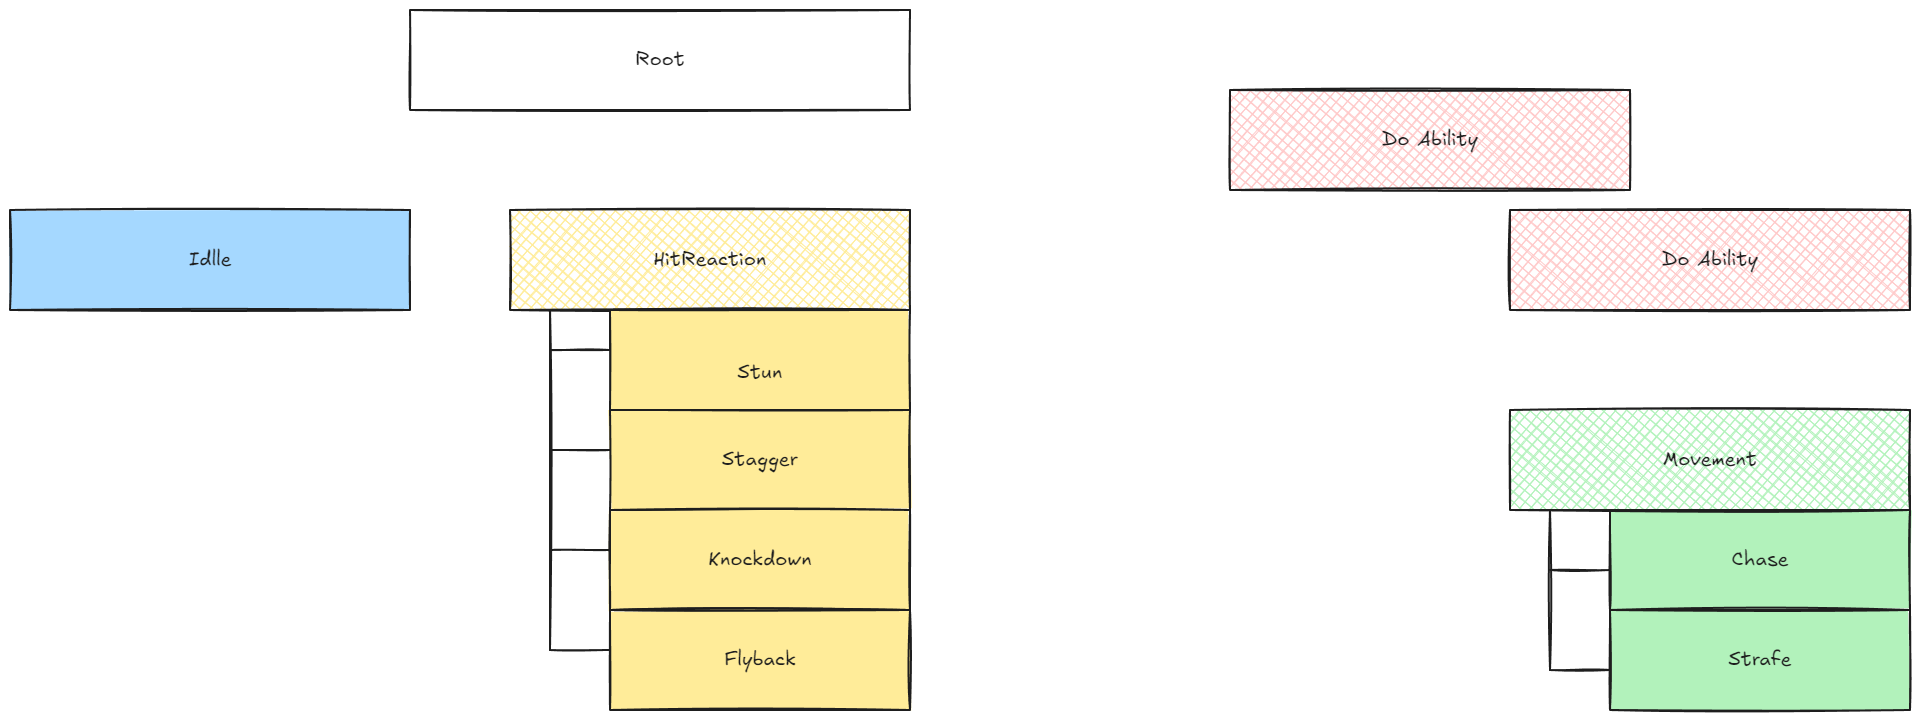
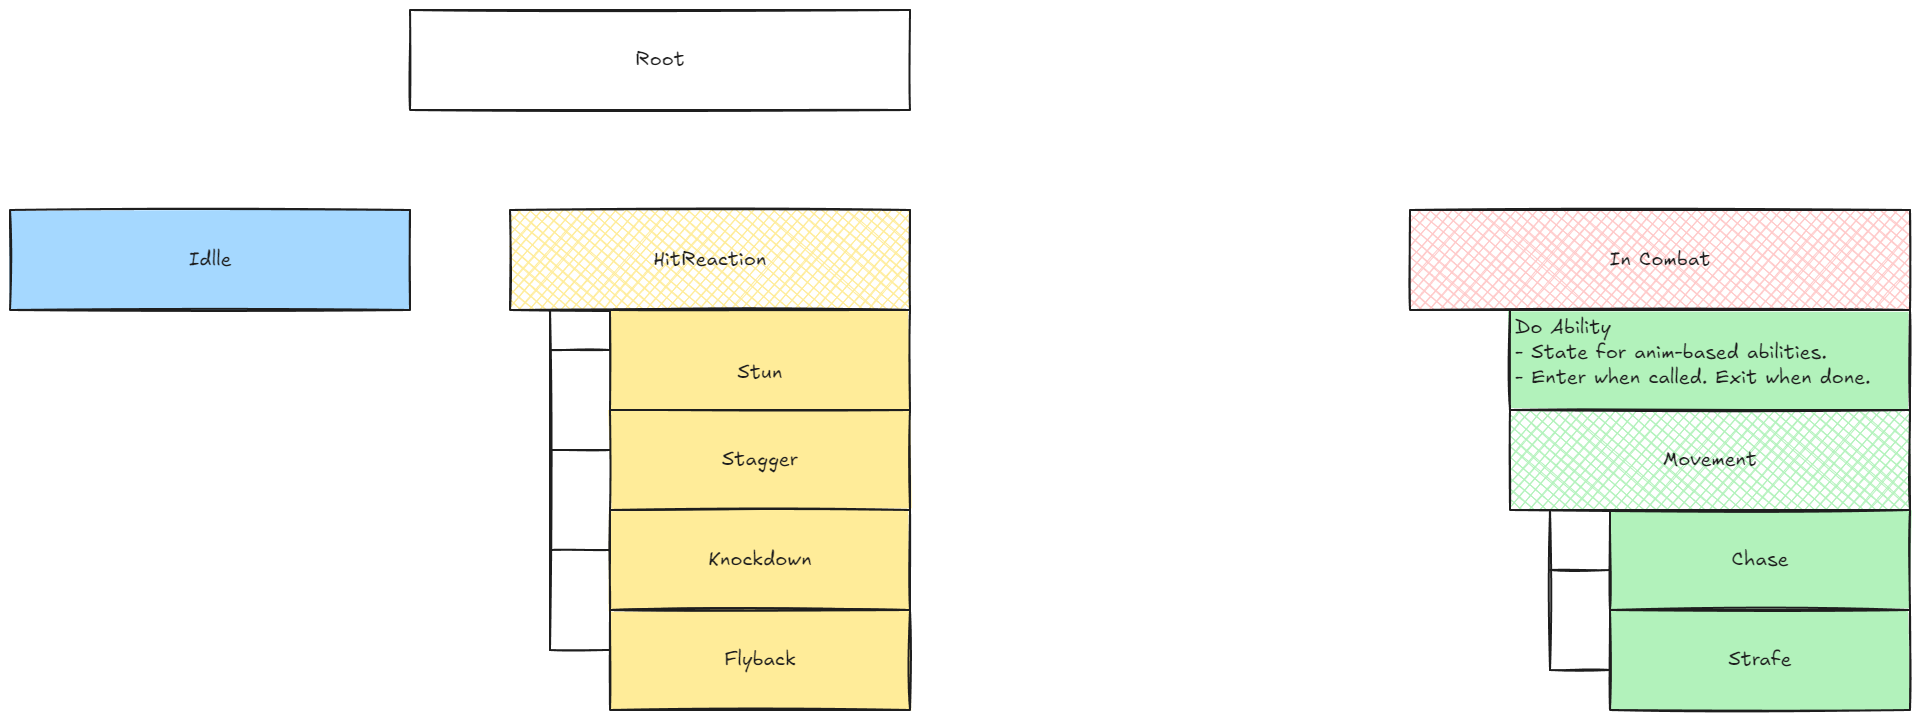
vault backup: 2026-06-04 18:34:41

Changed region(s): [[0.625, 0.1222, 1.0, 0.5806]]

diff --git a/Projects/Summer Project/Mechanics/AI Rework Graph.md b/Projects/Summer Project/Mechanics/AI Rework Graph.md
@@ -30,9 +30,11 @@ Movement ^Aw6gvWcO
 
 Strafe ^CxHEqQMk
 
-Do Ability ^uWY48rye
+Do Ability
+- State for anim-based abilities.
+- Enter when called. Exit when done. ^uWY48rye
 
-Do Ability ^M2kW6dxD
+In Combat ^M2kW6dxD
 
 %%
 ## Drawing
@@ -41,90 +43,92 @@ N4KAkARALgngDgUwgLgAQQQDwMYEMA2AlgCYBOuA7hADTgQBuCpAzoQPYB2KqATLZMzYBXUtiRoIACyh
 
[1 lines of base64/hex data omitted]
 
[2 lines of base64/hex data omitted]
 
[2 lines of base64/hex data omitted]
 
[2 lines of base64/hex data omitted]
 
[2 lines of base64/hex data omitted]
 
[2 lines of base64/hex data omitted]
 
[2 lines of base64/hex data omitted]
 
[2 lines of base64/hex data omitted]
 
[2 lines of base64/hex data omitted]
 
[2 lines of base64/hex data omitted]
 
[2 lines of base64/hex data omitted]
 
[2 lines of base64/hex data omitted]
 
[2 lines of base64/hex data omitted]
 
[2 lines of base64/hex data omitted]
 
[2 lines of base64/hex data omitted]
 
[2 lines of base64/hex data omitted]
 
[2 lines of base64/hex data omitted]
 
[2 lines of base64/hex data omitted]
 
[2 lines of base64/hex data omitted]
 
[2 lines of base64/hex data omitted]
 
[2 lines of base64/hex data omitted]
 
[2 lines of base64/hex data omitted]
 
[2 lines of base64/hex data omitted]
 
[2 lines of base64/hex data omitted]
 
[2 lines of base64/hex data omitted]
 
[2 lines of base64/hex data omitted]
 
[2 lines of base64/hex data omitted]
 
[2 lines of base64/hex data omitted]
 
[2 lines of base64/hex data omitted]
 
[2 lines of base64/hex data omitted]
 
[2 lines of base64/hex data omitted]
 
[2 lines of base64/hex data omitted]
 
[2 lines of base64/hex data omitted]
 
[2 lines of base64/hex data omitted]
 
[2 lines of base64/hex data omitted]
 
[2 lines of base64/hex data omitted]
 
[2 lines of base64/hex data omitted]
 
[2 lines of base64/hex data omitted]
 
[2 lines of base64/hex data omitted]
 
[2 lines of base64/hex data omitted]
 
[2 lines of base64/hex data omitted]
 
[2 lines of base64/hex data omitted]
 
[2 lines of base64/hex data omitted]
 
[2 lines of base64/hex data omitted]
+
[1 lines of base64/hex data omitted]
 ```
 %%
